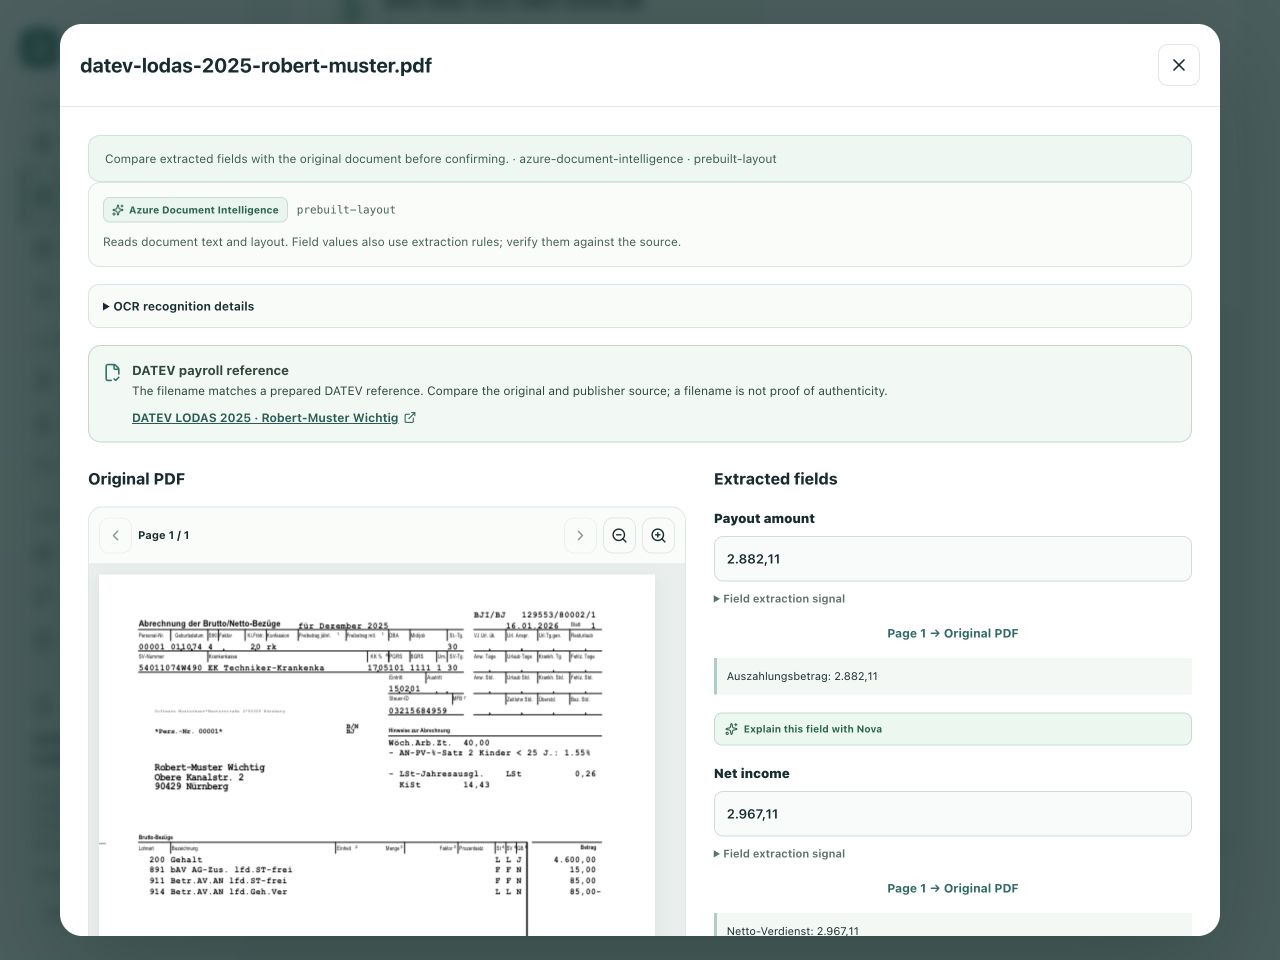
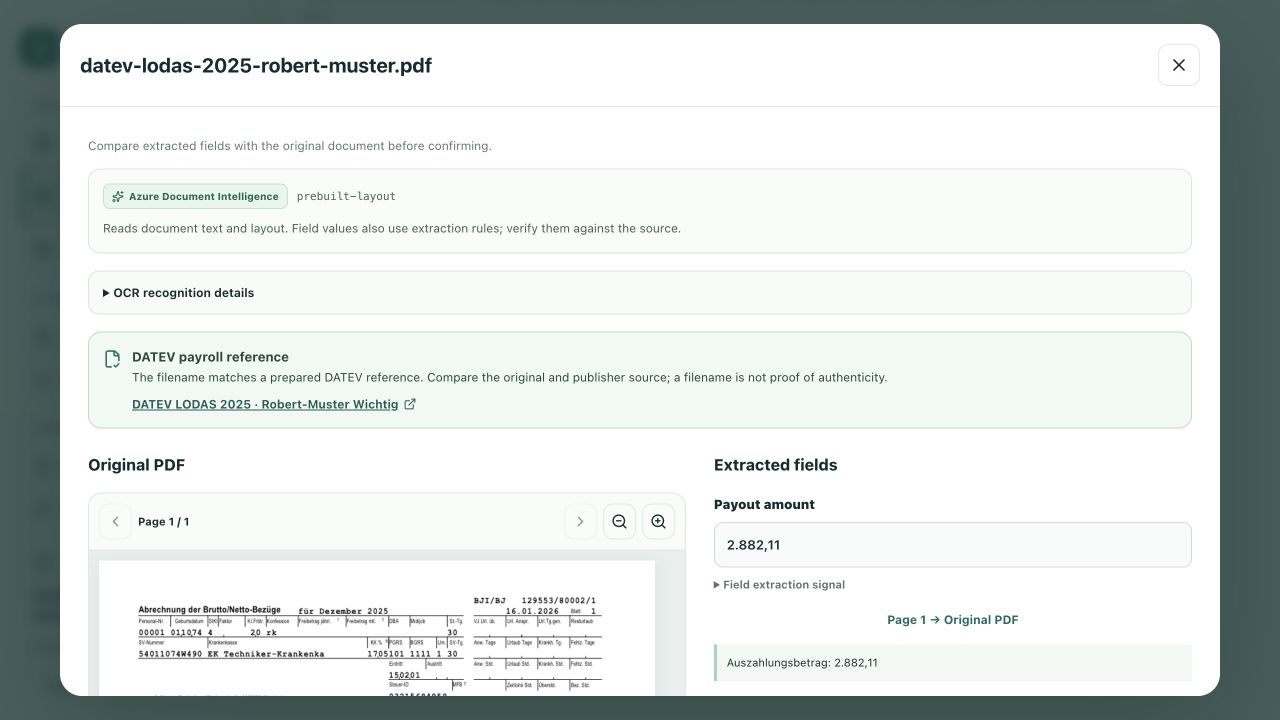
docs: refresh workspace guide screenshots and architecture

diff --git a/README.md b/README.md
@@ -4,6 +4,16 @@ A hands-on, **MIT-licensed document AI research lab** for studying how to turn P
 
 The project studies extraction, hybrid RAG, source-grounded answers and human review for **DATEV payroll/banking**, **insurance** and **general business documents**.
 
+The current workspace brings those experiments into one evidence-first workflow:
+
+- **Read documents:** extract page text, layout and tables with Azure Document Intelligence or the optional local Docling provider.
+- **Find and explain evidence:** compare keyword/vector/hybrid retrieval, then ask Nova source-based questions through Azure OpenAI.
+- **Review the result:** compare fields with the private original, record corrections and keep AI output separate from human approval.
+- **Measure, not assume:** create checked reference versions and evaluate extraction or retrieval on those specific documents.
+- **Operate locally:** sign in through Keycloak; follow durable processing jobs, batch receipts and activity history in Docker.
+
+Seven main destinations replace a long flat menu. Overview keeps **28 capabilities in six expandable groups**: **13 AI-assisted workflows** and **15 rule-based, navigation or human-review controls**, not 28 AI models.
+
 The main walkthrough follows one setup from a fresh clone to a working Nova conversation: **run the application locally in Docker and connect it to your Azure OpenAI and Document Intelligence resources**. Web, Java, Keycloak, databases and private storage stay on your computer; confirmed AI requests call Azure. For extraction without an Azure account, use the separate [local Docling guide](docs/LOCAL_DOCUMENT_AI.md); that profile does not include a generative Nova model.
 
 **Java 21 · Spring Boot · LangChain4j · Azure Document Intelligence · Azure OpenAI · Next.js · PostgreSQL · Qdrant · Keycloak · Docker**
@@ -156,14 +166,14 @@ These credentials apply to a **fresh local identity database**. Existing volumes
 ### 7. Analyze a document and test Nova
 
 1. Create a **General documents** dossier and open **Documents & review**.
-2. Prepare the [Kaggle document library](#kaggle-document-library), then select invoice **51109301** in **Document research library**. Preview it, choose **Import & analyze** and confirm the destination. Only the confirmed PDF is sent to Azure Document Intelligence.
+2. Prepare the [Kaggle document library](#kaggle-document-library), then expand **Reference library → Document research library** and select invoice **51109301**. Preview it, choose **Import & analyze** and confirm the destination. Only the confirmed PDF is sent to Azure Document Intelligence.
 3. Find **Analysis results**, above the sample library, and open **View result & PDF**. Inspect the Azure provider/model, original page, extracted values and tables. For progress/history, open **Data Pipelines → Processing queue**.
 4. Open **Nova → Evidence analysis**, type the question below and press Enter. Shift+Enter adds a line break.
 
 > What amounts are stated in this invoice? Cite the source page, distinguish observed facts from interpretation, and say what needs human verification.
 
 5. Check that a completed **Azure OpenAI** answer appears. Open its source links and compare the original. A greeting, engine badge or local **App guidance** response alone is not proof that the model answered.
-6. Use **AI Studio** to retrieve a passage. In **AI Experiments**, independently check labels/target pages against the PDF, save a reference and run an extraction or retrieval experiment.
+6. Use **AI Studio** to retrieve a passage. In **Research lab → Experiments**, independently check labels/target pages against the PDF, save a reference and run an extraction or retrieval experiment.
 
 For insurance, use the four private Kaggle references below. For payroll, prepare the private DATEV references.
 
@@ -175,7 +185,7 @@ See [Azure reference details](docs/AZURE_AI.md) for additional RBAC examples and
 
 ### Batch intake and extraction check profiles
 
-Open **Overview → Multi-document batch intake → Data Pipelines → Batch intake & extraction profiles**. Select **1–4 permitted PDFs/images**, each at most **3 MB**, enter a source/provenance note and choose a check profile. Review the file list and provider before **Confirm analysis**. Azure mode still limits each PDF to **2 pages**; a batch does not increase the per-file limits. Each accepted file is scanned separately before Azure analysis.
+Open **Data Pipelines → Batch intake**. Alternatively, find **Multi-document batch intake** in Overview's capability directory. Select **1–4 permitted PDFs/images**, each at most **3 MB**, enter a source/provenance note and choose a check profile. Review the file list and provider before **Confirm analysis**. Azure mode still limits each PDF to **2 pages**; a batch does not increase the per-file limits. Each accepted file is scanned separately before Azure analysis.
 
 Profiles are **versioned Java field checks**, not trained Azure classifiers or new LLM calls:
 
@@ -196,7 +206,7 @@ Repeated submission of the same request ID and identical content returns its rec
 
 The **Overview AI capability directory** lists all 28 current entries: 13 AI-assisted workflows and 15 rule-based, navigation, review or governance controls, each with a tool destination. Azure OpenAI, Azure Document Intelligence and local ONNX/Qdrant retrieval are distinguished. Counts describe catalogue entries, not independent models, live health checks or successful inference calls.
 
-![Current English Overview directory with 28 entries, separate AI/control filters and actual provider configuration](docs/screenshots/ai-capability-directory-en.png)
+See the [current six-group directory](#multi-domain-overview) in the workspace tour.
 
 To verify the complete local OAuth → proxy → Java → PostgreSQL → scan → Azure → protected PDF flow with two pinned, public synthetic Kaggle invoices:
 
@@ -269,16 +279,14 @@ python3 -m venv .local/kaggle-tools
 The helper downloads only allowlisted files, verifies source/version hashes and exact page markers, checks prepared PDF hashes and refuses to overwrite different existing files. Insurance originals stay in `.local/kaggle-insurance/`; invoice originals in `.local/kaggle-invoices/`; ready PDFs in `.local/reference-pdfs/`, already mounted read-only into Docker web. Invoice PDF bytes are preserved, not re-created by this app. **Preparation never calls Azure or writes to the database.** No Kaggle API key is required for these public files.
 
 1. Create/open an **Insurance** or **General documents** dossier, then **Documents & review**.
-2. In **Document research library**, search/select a document and choose **Preview PDF**. Viewing stays local and shows the source-page mapping.
+2. Expand **Reference library → Document research library**, search/select a document and choose **Preview PDF**. Viewing stays local and shows the source-page mapping.
 3. Choose **Import & analyze**, review the destination and confirm. The authenticated queue scans that PDF with ClamAV, calls the configured document provider and stores the original/result privately in the dossier. Azure mode sends only that confirmed PDF to Azure Document Intelligence.
 4. Stay on the page: processing and **View result & PDF** appear **above** the library. Exact prepared-file matches open their existing results instead of re-analyzing.
 5. Ask Nova about source wording, missing context, invoice number or totals. Check page citations; field counts and OCR signals are not accuracy scores.
 
 Keep the Azure token-renewal helper running for cloud analysis. Missing or modified private PDFs disable their cards; the web app never silently downloads a replacement. The old `prepare-insurance-references.py` entry point remains compatible and prepares only the four insurance references.
 
-![English Kaggle insurance library filtered by Principal, with existing results and new imports](docs/screenshots/insurance-kaggle-library-en.jpg)
-
-![English Kaggle invoice library](docs/screenshots/general-kaggle-library-en.jpg)
+![Current English insurance reference library with source-page mapping, rights disclosures and links to existing results](docs/screenshots/insurance-kaggle-library-en.jpg)
 
 With the Azure Docker stack running and all eight private files prepared, this explicit integration test creates two local research dossiers, scans/analyzes all eight PDFs and checks Nova's source links and original INR currency. It uses your configured Azure inference and may incur usage charges:
 
@@ -309,7 +317,7 @@ The helper validates the source and refuses to overwrite existing references. Ex
 .local/reference-pdfs/datev-lodas-2025-melanie-muster.pdf
 ```
 
-3. In a **Banking & payroll** dossier, open **Documents & review → Official DATEV payroll library**. Preview a page, choose **Import & analyze**, confirm its destination and inspect **Analysis results** above the library.
+3. In a **Banking & payroll** dossier, open **Documents & review → Reference library** to reveal the official DATEV payroll library. Preview a page, choose **Import & analyze**, confirm its destination and inspect **Analysis results** above the library.
 4. In Azure mode, ask Nova to distinguish net earnings from payout with a page citation. Robert-Muster's reference values are **2.967,11 EUR** net and **2.882,11 EUR** payout—not the same field.
 
 Previewing does not send a prepared PDF to Azure; confirmed analysis does. Keep third-party PDFs outside `public/` and Git. Source labels/number formatting remain unchanged across interface languages. [Reference details](docs/PUBLIC_PAYROLL_TESTS.md).
@@ -372,14 +380,20 @@ node --test scripts/docker-azure-config.test.mjs
 | Document OCR and layout | Azure Document Intelligence `prebuilt-layout`, optional local Docling, or PDFBox/Tesseract baseline; Java field normalization/classification rules | Documents & review |
 | Semantic and hybrid RAG | Local MiniLM ONNX embeddings, Qdrant and BM25—not Azure AI Search | AI Studio |
 | Document Q&A and source explanations | Azure OpenAI through Java/LangChain4j; dossier-scoped read-only tools | Nova → Evidence analysis |
-| Controlled AI drafts | Summary, cross-document comparison, inconsistency explanation, document request, review checklist, German terminology and DE–VI summary | AI transparency & review → Task library |
-| Source-bound evaluation | Human-checked reference labels; deterministic extraction precision/recall/F1 and retrieval hit rate@5/MRR@5 | AI Experiments |
+| Controlled AI drafts | Summary, cross-document comparison, inconsistency explanation, document request, review checklist, German terminology and DE–VI summary | Review & trust → Task library |
+| Source-bound evaluation | Human-checked reference labels; deterministic extraction precision/recall/F1 and retrieval hit rate@5/MRR@5 | Research lab → Experiments |
 | Traceable processing control room | Durable stages/events, current-versus-historical filters, bounded retries, waiting-job cancellation and metadata-only manifests | Data Pipelines → Processing queue |
 | Evidence review and research exports | Private PDF viewer, corrections/history, reviewer tasks, source hashes and private JSON/JSONL exports | Documents & review / Data Pipelines |
 
 The platform also provides Keycloak OAuth 2.0/OIDC + PKCE, Bearer-protected tenant/dossier access, PostgreSQL persistence, durable jobs, ClamAV, Redis limits, audit history and English/German/Vietnamese UI/page tours. Nova **App guidance** is local application logic, not an LLM response.
 
 OCR confidence is not measured accuracy; citation-ID validation does not prove that every statement is supported. Financial decisions remain outside scope. Azure Foundry evaluation, Data Factory orchestration, Blob ingestion and Application Insights are **not connected by default**. [Research methods](docs/RESEARCH_WORKSPACES.md) · [Nova privacy and review](docs/NOVA_TRUST.md).
+
+### Local Docling: what changed
+
+The optional Docker profile now connects the existing **Java document-provider interface** to **Docling Serve CPU**. It reads text, page layout and tables locally; the result uses the same private PDF viewer, queue and review workflow as Azure extraction. The service is pinned by image digest, has no host port or network egress, and receives document bytes rather than source URLs or app credentials. Missing confidence stays unknown; Java field checks are not a trained classifier.
+
+Follow the [Docling setup and real-model smoke test](docs/LOCAL_DOCUMENT_AI.md) separately from the main Azure walkthrough. Switching to that profile retains database volumes but clears Azure model configuration: **it does not provide a local generative Nova model or silently fall back to Azure**. Existing saved results keep their original provider. PaddleOCR, BGE-M3, a learned BGE reranker and Qwen-VL are not installed.
 
 ## Workspace tour
 
@@ -397,11 +411,21 @@ The sidebar has seven destinations. Related research and operations pages use lo
 
 Existing `#banking`, `#evaluation` and `#audit` links still open the correct section. Navigation, directory filters and page guides never start inference automatically. The optional Docling provider and the active Azure configuration are unchanged by the UI grouping.
 
-Current local UI in English. Screenshots show an existing research workspace, not dossiers preloaded into a fresh clone. German labels and number formatting inside source evidence are deliberately preserved.
+All interface screenshots below and in the setup/sample sections were captured again from the running local app on **18 October 2026**, in English. They show existing research dossiers and saved results, not dossiers preloaded into a fresh clone or new inference calls made for this documentation. German labels and number formatting inside source evidence are deliberately preserved.
 
 ### Multi-domain overview
 
-![English overview with banking, insurance and general-document domains](docs/screenshots/workspace-overview-en.jpg)
+![Current English overview with seven navigation destinations, three AI entry points and dossier-scoped metrics](docs/screenshots/workspace-overview-en.jpg)
+
+The directory separates AI from rules and human review. Expand a group or search for a task to find its engine, limits and direct destination; opening a destination does not run inference.
+
+![Current English capability directory with six collapsed groups and separate AI-assisted and human-review filters](docs/screenshots/ai-capability-directory-en.jpg)
+
+### Results first, references when needed
+
+**Analysis results** is the destination after import. Each compact result links directly to **View result & PDF** and Nova; the reference library stays collapsed until needed. Field/page/table counts describe extraction output, not accuracy.
+
+![Current English results list showing separate DATEV net earnings and payout, direct PDF access and the collapsed reference library](docs/screenshots/document-results-en.jpg)
 
 ### DATEV original and extraction
 
@@ -409,27 +433,17 @@ The current viewer places the private original beside extracted fields, source q
 
 ![Current DATEV PDF viewer with extracted fields and source evidence](docs/screenshots/datev-evidence-en.jpg)
 
-### Insurance document review
-
-The Kaggle-only library keeps references and processing results together; full originals remain private.
-
-![Kaggle-only insurance library and source provenance](docs/screenshots/insurance-kaggle-library-en.jpg)
+For insurance and invoices, the same workflow uses the [private Kaggle reference library](#kaggle-document-library), with explicit source and rights information. Full originals remain private.
 
 ### Document processing control room
 
-Actual local Azure processing of a synthetic Kaggle invoice. The review-ready filter separates a saved result from cancelled or blocked test submissions. Page/table counts are extraction output, not accuracy scores.
+The current queue shows a saved DATEV extraction and its reviewer-confirmed state. One set of status chips filters submissions; **Batch intake** and **Data assets & Azure** are separate tabs. Expand processing/storage settings only when needed.
 
 ![English document pipeline with state filters and a direct result-and-PDF action](docs/screenshots/document-pipeline-en.jpg)
 
-Open **Processing details** for the source identity, actual extraction counts and recorded events. **Download processing manifest** exports metadata only.
+Open **Processing details** for the source identity, actual extraction counts and recorded events. **Download processing manifest** exports metadata only. The pictured historical job predates detailed event recording; its missing timestamps are not reconstructed or presented as a new successful run.
 
-![English processing details showing recorded timestamps for all six stages and the metadata-only manifest action](docs/screenshots/document-pipeline-details-en.jpg)
-
-### Nova, grounded in the selected dossier
-
-A real local Azure OpenAI conversation about the approved fictional DATEV sample. Source links make the answer inspectable; they do not replace human verification.
-
-![Nova answering in English with document-page evidence](docs/screenshots/nova-datev-en.jpg)
+![Current processing receipt with source hash, provider, saved extraction counts and historical timestamp limitations](docs/screenshots/document-pipeline-details-en.jpg)
 
 ### Meet Nova and replay a page guide
 
@@ -439,11 +453,13 @@ Nova's portrait is an **AI-generated fictional character**, not a real advisor. 
 
 Open the portrait button at the bottom right. Choose **App guidance** for local instructions and links, or **Evidence analysis** for source-based Azure OpenAI questions. The **compass icon** starts a step-by-step guide for the current page; **Expand reading area** gives longer answers more room. Enter sends; Shift+Enter adds a line break.
 
+The screenshot shows **local App guidance**, not an Azure OpenAI answer. To test the generative model, follow [Test Nova](#7-analyze-a-document-and-test-nova), select **Evidence analysis**, send a question and independently check its page sources. Source links make an answer inspectable; they do not replace human verification.
+
 ![Current English Nova interface with the fictional avatar and local app guidance](docs/screenshots/nova-profile-guide-en.jpg)
 
 ### Source-bound experiments
 
-Read labels independently from the original, save a reference version, then evaluate extraction or compare BM25/vector/hybrid retrieval. Results belong to that labelled sample, not general model accuracy.
+The **Research lab** groups **Experiments**, **Domain insights** and **Document inventory** as local tabs. Read labels independently from the original, save a reference version, then evaluate extraction or compare BM25/vector/hybrid retrieval. Results belong to that labelled sample, not general model accuracy. Operations similarly keeps **Activity log** inside its section rather than adding another main-menu entry.
 
 ![English source-bound AI experiment workspace](docs/screenshots/research-experiments-en.jpg)
 
@@ -451,23 +467,42 @@ Read labels independently from the original, save a reference version, then eval
 
 ```mermaid
 flowchart TD
-    U[Browser · Next.js / React] -->|OIDC code + PKCE| K[Keycloak]
-    U -->|API-audience Bearer token| N[Next.js API proxy]
-    K --> I[(Identity PostgreSQL)]
-    N --> J[Java 21 · Spring Boot · tenant + dossier authorization]
-    J --> P[(PostgreSQL · dossiers / jobs / audit / references)]
-    J --> Q[Durable document queue]
-    Q --> V[ClamAV]
-    V --> D[Azure Document Intelligence OR local Docling OR PDFBox / Tesseract]
-    Q --> S[Private document volume]
-    D --> P
-    J --> R[ONNX + Qdrant + BM25]
-    R --> L[LangChain4j · scoped evidence context]
-    L --> O[Azure OpenAI · Nova]
-    J --> E[Source-bound experiment worker]
-    E --> P
-    J --> X[Redis quotas / optional OpenTelemetry]
+    U[Browser · seven workspace destinations]
+    subgraph LOCAL[Local Docker]
+        K[Keycloak · OIDC and PKCE] --> I[(Identity PostgreSQL)]
+        N[Next.js authenticated API proxy] --> J[Java 21 / Spring Boot · tenant and dossier authorization]
+        J --> P[(Case PostgreSQL · jobs, evidence, reviews and references)]
+        J --> Q[Durable document worker]
+        Q --> S[Private original-document volume]
+        Q --> V[ClamAV scan and content limits]
+        V --> D{Configured extraction provider}
+        D -->|Optional local profile| DC[Docling CPU · isolated parser]
+        D -->|Local baseline| B[PDFBox / Tesseract]
+        DC --> F[Java field mapping and checks]
+        B --> F
+        F --> P
+        J --> R[Local retrieval · MiniLM ONNX / Qdrant / BM25]
+        R --> L[LangChain4j · authorized evidence context]
+        J --> E[Source-bound extraction and retrieval experiments]
+        E --> P
+        J --> X[Redis quotas / optional OpenTelemetry]
+        A[Azure CLI token-renewal helper]
+    end
+    subgraph CLOUD[Your Azure resources · confirmed inference can be billable]
+        EN[Microsoft Entra]
+        DI[Document Intelligence · prebuilt-layout]
+        O[Azure OpenAI · Nova evidence analysis]
+    end
+    U -->|Sign in| K
+    U -->|API-audience Bearer token| N
+    D -->|Azure profile| DI
+    DI --> F
+    L --> O
+    A -->|Developer sign-in| EN
+    A -.->|Short-lived token file for Azure clients| J
 ```
+
+Exactly one document provider is selected by configuration; the branches are alternatives, not a three-engine ensemble or automatic cloud fallback. Azure results shown above were saved with the Azure provider. Local App guidance and page tours do not use the Azure OpenAI path. Retrieval indexing is built on demand, separately from OCR completion.
 
 Two separate identities:
 
@@ -482,6 +517,7 @@ Two separate identities:
 | `case-db` / `identity-db` | Separate internal PostgreSQL databases with named volumes |
 | `qdrant` / `redis` | Internal evidence index and shared quotas, persisted locally |
 | `clamav` | Scans uploads before extraction; persistent signature volume |
+| `docling` | Optional internal CPU parser, isolated network and temporary scratch storage; enabled with the separate Docling Compose profile |
 | `storage-init` | One-shot private-volume ownership task |
 | `otel-collector` | Optional local tracing override; no automatic cloud export |
 
